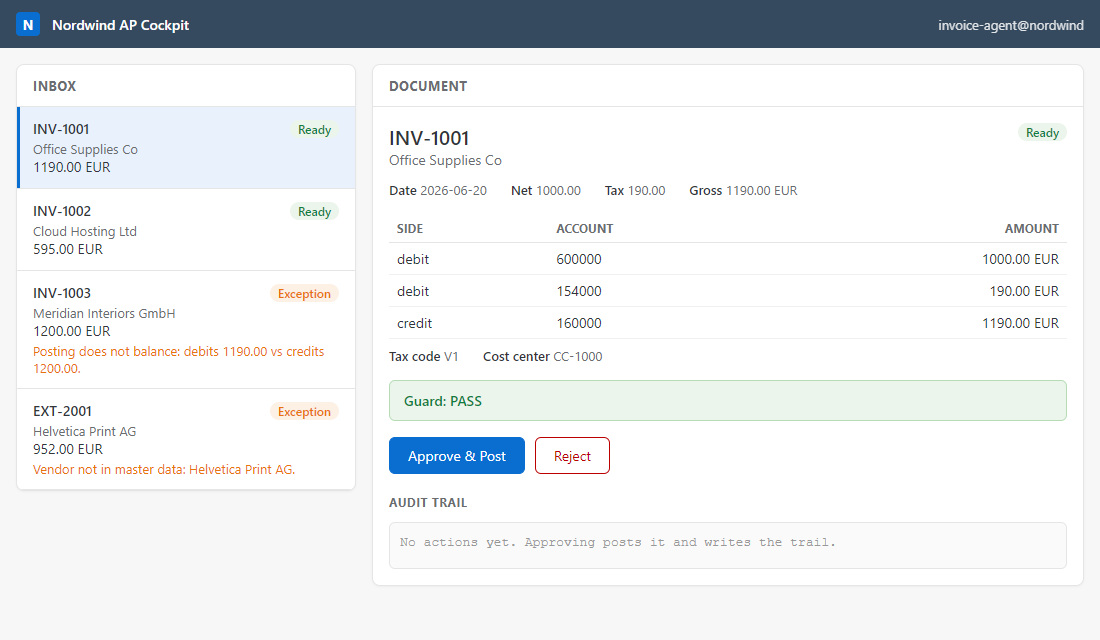
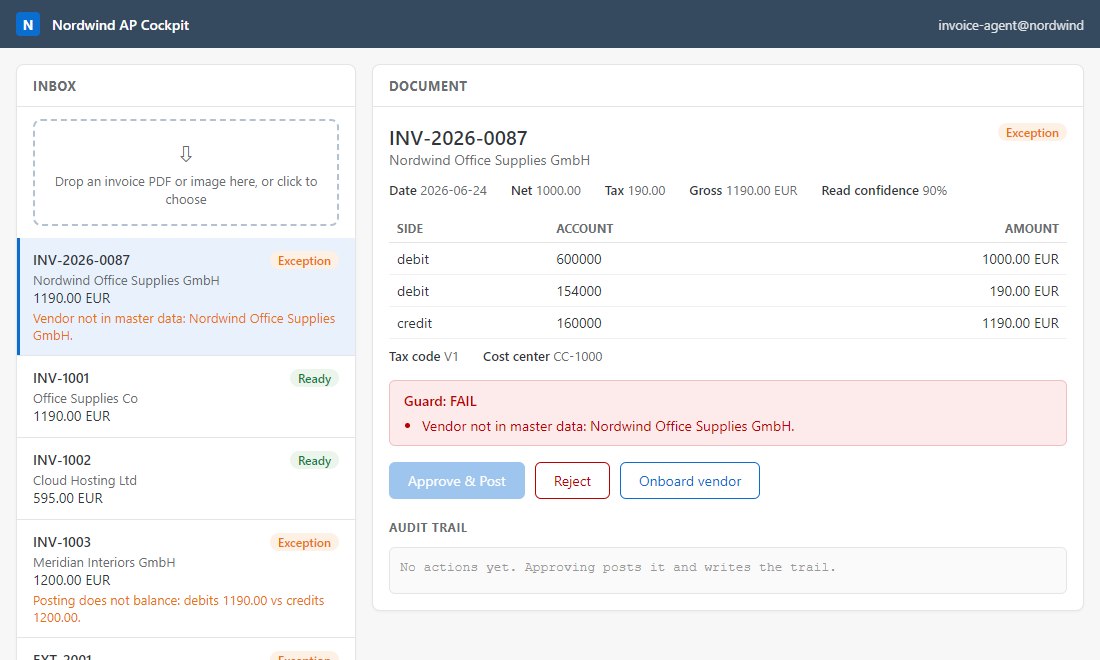
Console: drop-a-PDF tile reads a real invoice into the inbox
A dropzone at the top of the inbox: drag a PDF or image (or click to choose), the
vision extractor reads it into the fields with a confidence, and it appears in the
inbox like any seeded document, guard verdict and all (an outside vendor shows the
Onboard action). Backend adds /api/upload (base64 in, extract_document, register);
loads the OpenRouter key from .env; confidence gating on at 0.5. Degrades gracefully
with no key: the drop reports it, seeded docs still work offline. Verified live: sample
PDF read at 0.90 into INV-2026-0087. Screenshot refreshed.

diff --git a/console/index.html b/console/index.html
@@ -22,6 +22,11 @@
   .row{padding:12px 16px;border-bottom:1px solid var(--line);cursor:pointer}
   .row:hover{background:#f2f7fd}
   .row.sel{background:#e8f1fc;box-shadow:inset 3px 0 0 var(--accent)}
+  .dropzone{margin:12px 16px;padding:16px;border:2px dashed #b3c2d1;border-radius:8px;text-align:center;color:var(--muted);cursor:pointer;font-size:13px;line-height:1.4}
+  .dropzone:hover{border-color:var(--accent)}
+  .dropzone.over{border-color:var(--accent);background:#f2f7fd;color:var(--accent)}
+  .dropzone.busy{border-style:solid;border-color:var(--accent);color:var(--accent);cursor:progress}
+  .dropzone .big{font-size:22px;display:block;margin-bottom:4px}
   .row .top{display:flex;justify-content:space-between;align-items:center}
   .row .id{font-weight:600}
   .row .vend{color:var(--muted);font-size:13px;margin-top:2px}
@@ -69,6 +74,11 @@
   <div class="wrap">
     <div class="panel inbox">
       <h2>Inbox</h2>
+      <div id="drop" class="dropzone">
+        <span class="big">&#8681;</span>
+        <span id="drop-label">Drop an invoice PDF or image here, or click to choose</span>
+      </div>
+      <input type="file" id="file" accept=".pdf,.png,.jpg,.jpeg,.webp" hidden>
       <div id="inbox"></div>
     </div>
     <div class="panel detail">
@@ -138,6 +148,38 @@ function renderDetail(d){
       <h3>Audit trail</h3>
       <div class="trail">${trail}<div class="chain">${d.audit.length?("Chain verifies: "+(d.audit_ok?"yes, untampered":"NO")) :""}</div></div>
     </div>`;
+}
+
+// --- Drop a PDF: read it with the vision model, drop it into the inbox ---
+const drop = document.getElementById("drop");
+const fileInput = document.getElementById("file");
+const dropLabel = document.getElementById("drop-label");
+const DROP_TEXT = "Drop an invoice PDF or image here, or click to choose";
+drop.onclick = () => fileInput.click();
+fileInput.onchange = () => { if (fileInput.files[0]) uploadFile(fileInput.files[0]); };
+drop.ondragover = e => { e.preventDefault(); drop.classList.add("over"); };
+drop.ondragleave = () => drop.classList.remove("over");
+drop.ondrop = e => { e.preventDefault(); drop.classList.remove("over"); if (e.dataTransfer.files[0]) uploadFile(e.dataTransfer.files[0]); };
+
+async function uploadFile(file){
+  drop.classList.add("busy");
+  dropLabel.textContent = "Reading " + file.name + " with the model, this takes a few seconds...";
+  try {
+    const b64 = await new Promise((res, rej) => {
+      const r = new FileReader();
+      r.onload = () => res(r.result.split(",")[1]);
+      r.onerror = rej;
+      r.readAsDataURL(file);
+    });
+    const resp = await postJSON("/api/upload", { filename: file.name, content_base64: b64 });
+    if (resp.ok) { dropLabel.textContent = DROP_TEXT; await select(resp.id); }
+    else { dropLabel.textContent = "Could not read that file: " + (resp.error || "error") + ". Click to try another."; await loadInbox(); }
+  } catch (err) {
+    dropLabel.textContent = "Upload failed: " + err + ". Click to try again.";
+  } finally {
+    drop.classList.remove("busy");
+    fileInput.value = "";
+  }
 }
 
 loadInbox();

diff --git a/console/serve.py b/console/serve.py
@@ -15,8 +15,11 @@ below for another pattern and point the server at it.
 
 from __future__ import annotations
 
+import base64
 import json
+import os
 import sys
+import tempfile
 import webbrowser
 from dataclasses import replace
 from decimal import Decimal
@@ -26,14 +29,33 @@ from urllib.parse import parse_qs, urlparse
 
 HERE = Path(__file__).resolve().parent
 REPO = HERE.parent
+PATTERN1 = REPO / "patterns" / "pattern-01-finance-document-to-draft-posting"
 sys.path.insert(0, str(REPO / "shared"))
-sys.path.insert(0, str(REPO / "patterns" / "pattern-01-finance-document-to-draft-posting" / "src"))
+sys.path.insert(0, str(PATTERN1 / "src"))
 
-from sap_client import Document, GovernedSapClient, MockSapClient  # noqa: E402
+from sap_client import (  # noqa: E402
+    Document,
+    ExtractionError,
+    GovernedSapClient,
+    MockSapClient,
+    extract_document,
+)
 
 from pattern1.determination import apply_determination  # noqa: E402
 from pattern1.proposer import RuleBasedProposer  # noqa: E402
 from pattern1.validator import default_config, validate_posting  # noqa: E402
+
+
+def load_dotenv() -> None:
+    """Read the OpenRouter key from a .env file so 'drop a PDF' can call the model."""
+    for env_file in (PATTERN1 / ".env", REPO / ".env"):
+        if not env_file.exists():
+            continue
+        for line in env_file.read_text(encoding="utf-8").splitlines():
+            line = line.strip()
+            if line and not line.startswith("#") and "=" in line:
+                key, _, value = line.partition("=")
+                os.environ.setdefault(key.strip(), value.strip().strip("'\""))
 
 
 def _money(d: Decimal) -> str:
@@ -78,6 +100,7 @@ class InvoicePostingAgent:
             known_vendors=self.mock.known_vendors(),
             known_tax_codes=self.mock.known_tax_codes(),
             active_cost_centers=self.mock.active_cost_centers(),
+            min_confidence=0.5,
         )
 
     def _prep(self, doc_id: str):
@@ -165,7 +188,30 @@ class InvoicePostingAgent:
         self.mock.add_business_partner(doc.vendor)  # the master-data step
         return self.detail(doc_id)
 
+    def upload(self, filename: str, content: bytes) -> dict:
+        """Read a dropped invoice (PDF or image) into the inbox with one model call."""
+        suffix = Path(filename).suffix or ".pdf"
+        with tempfile.NamedTemporaryFile(delete=False, suffix=suffix) as tf:
+            tf.write(content)
+            temp_path = tf.name
+        try:
+            doc = extract_document(temp_path)
+        except ExtractionError as exc:
+            return {"ok": False, "error": str(exc)}
+        except Exception as exc:  # network, decode, anything else
+            return {"ok": False, "error": f"could not read the file: {exc}"}
+        finally:
+            try:
+                os.unlink(temp_path)
+            except OSError:
+                pass
+        self.mock.register_document(doc)
+        if doc.doc_id not in self.doc_ids:
+            self.doc_ids.insert(0, doc.doc_id)
+        return {"ok": True, "id": doc.doc_id}
 
+
+load_dotenv()
 AGENT = InvoicePostingAgent()
 
 
@@ -197,6 +243,10 @@ class Handler(BaseHTTPRequestHandler):
         route = urlparse(self.path).path
         length = int(self.headers.get("Content-Length", 0))
         payload = json.loads(self.rfile.read(length) or b"{}")
+        if route == "/api/upload":
+            content = base64.b64decode(payload.get("content_base64", ""))
+            self._send(AGENT.upload(payload.get("filename", "invoice.pdf"), content))
+            return
         doc_id = payload.get("id", "")
         actions = {"/api/approve": AGENT.approve, "/api/reject": AGENT.reject, "/api/onboard": AGENT.onboard}
         if route in actions:

diff --git a/console/README.md b/console/README.md
@@ -18,8 +18,13 @@ memory. It opens your browser automatically.
 
 ## What you can do
 
-- **See the inbox.** Four documents, each with a status: ready, or an exception with
-  its reason (a total that does not balance, a vendor not in the master).
+- **Drop a real invoice.** Drag a PDF or an image onto the tile at the top of the
+  inbox (or click to choose one). A vision model reads it into the fields, with a read
+  confidence, and it lands in the inbox like any other document. This needs your
+  OpenRouter key in a `.env` file (see the Pattern 1 README); without it the drop
+  reports that it could not read the file, and the seeded documents still work offline.
+- **See the inbox.** Four seeded documents, each with a status: ready, or an exception
+  with its reason (a total that does not balance, a vendor not in the master).
 - **Read the proposal.** The agent's posting lines, the determined tax code and cost
   center, and the guard's PASS or FAIL with reasons.
 - **Approve and post**, or **reject** (nothing is written). Watch the audit trail fill